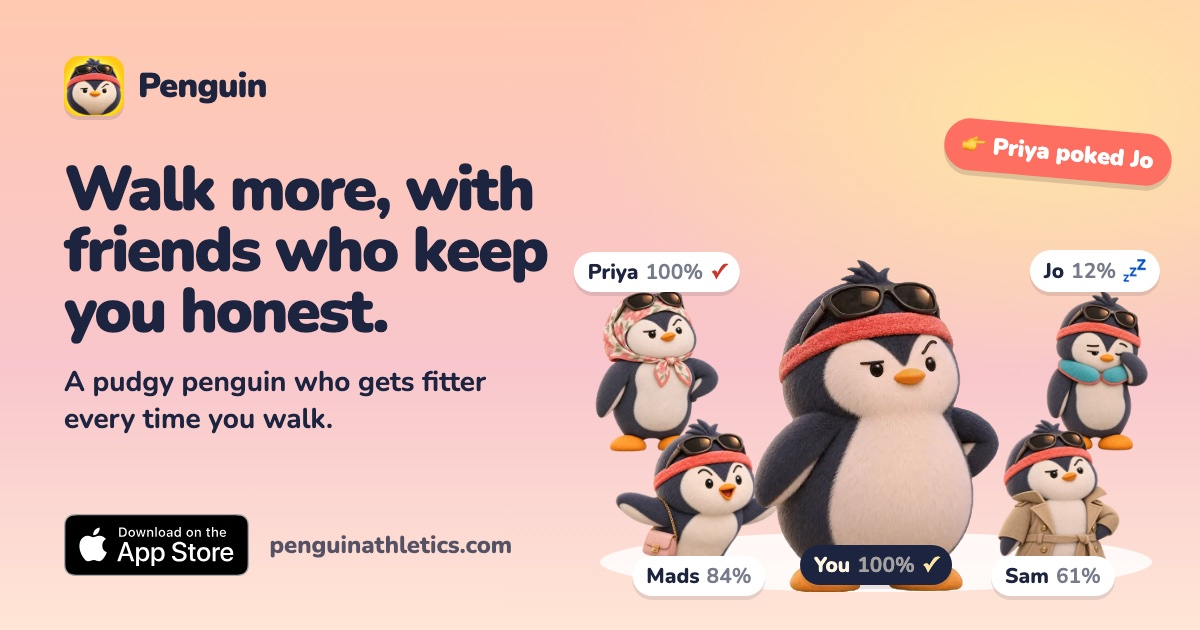
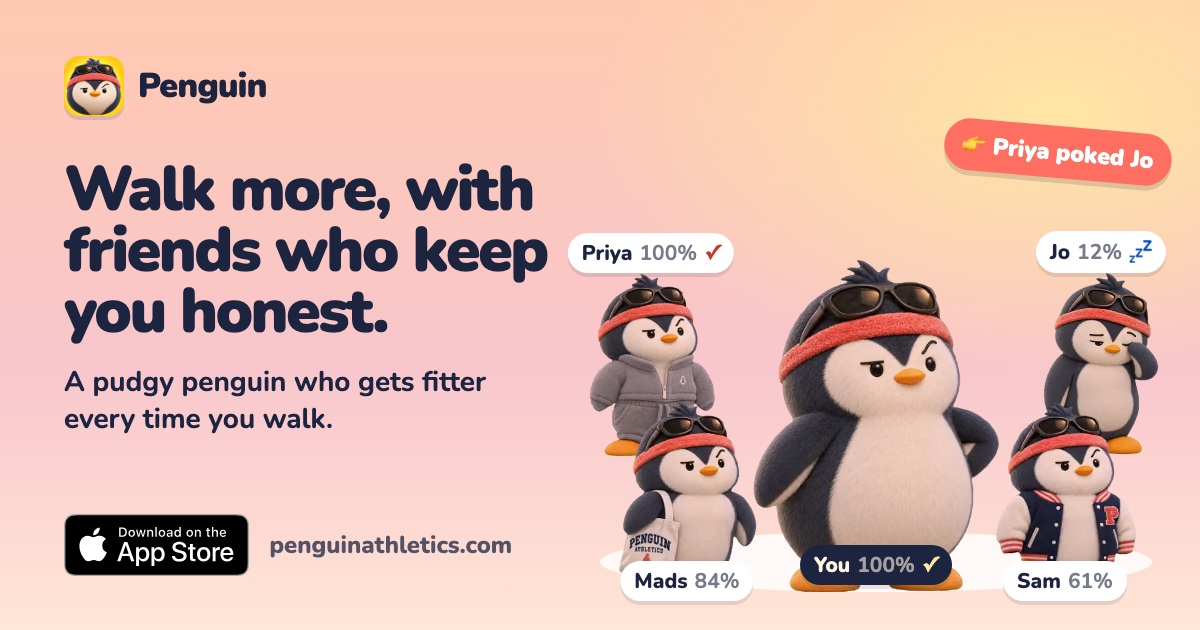
Share images: new squad to match the hero; remove old outfit images

Changed region(s): [[0.4625, 0.3619, 0.6475, 0.9651], [0.8325, 0.3619, 0.9867, 0.9651]]

diff --git a/scripts/og/og.html b/scripts/og/og.html
@@ -44,10 +44,10 @@
   .pal { position: absolute; z-index: 1; }
   .pal img { display: block; width: 100%; }
   .gary { z-index: 4; left: 21%; bottom: 0; width: 58%; }
-  .priya { left: 0; bottom: 30%; width: 27%; }
-  .mads { z-index: 2; left: 6%; bottom: 2%; width: 29%; }
-  .sam { z-index: 2; right: 6%; bottom: 2%; width: 29%; }
-  .jo { right: 0; bottom: 30%; width: 27%; }
+  .priya { left: -3%; bottom: 29%; width: 31%; }
+  .mads { z-index: 2; left: 2%; bottom: 1%; width: 33%; }
+  .sam { z-index: 2; right: 2%; bottom: 1%; width: 33%; }
+  .jo { right: -3%; bottom: 29%; width: 31%; }
   .chip {
     position: absolute; left: 50%; bottom: -4px; z-index: 5; transform: translateX(-50%);
     display: flex; gap: 7px; align-items: center; white-space: nowrap;
@@ -84,11 +84,11 @@
 
   <div class="squad">
     <p class="poke">👉 Priya poked Jo</p>
-    <div class="pal priya"><img src="../../public/assets/img/squad-priya-400.webp" alt=""><p class="chip">Priya <span>100%</span> <b>✓</b></p></div>
-    <div class="pal mads"><img src="../../public/assets/img/squad-mads-400.webp" alt=""><p class="chip">Mads <span>84%</span></p></div>
+    <div class="pal priya"><img src="../../public/assets/img/friend-priya-360.webp" alt=""><p class="chip">Priya <span>100%</span> <b>✓</b></p></div>
+    <div class="pal mads"><img src="../../public/assets/img/friend-mads-360.webp" alt=""><p class="chip">Mads <span>84%</span></p></div>
     <div class="pal gary"><img src="../../public/assets/img/hero-poster-640.webp" alt=""><p class="chip">You <span>100%</span> <b>✓</b></p></div>
-    <div class="pal sam"><img src="../../public/assets/img/squad-sam-400.webp" alt=""><p class="chip">Sam <span>61%</span></p></div>
-    <div class="pal jo"><img src="../../public/assets/img/squad-jo-400.webp" alt=""><p class="chip">Jo <span>12%</span> <b>💤</b></p></div>
+    <div class="pal sam"><img src="../../public/assets/img/friend-sam-360.webp" alt=""><p class="chip">Sam <span>61%</span></p></div>
+    <div class="pal jo"><img src="../../public/assets/img/friend-jo-360.webp" alt=""><p class="chip">Jo <span>12%</span> <b>💤</b></p></div>
   </div>
 </body>
 </html>

diff --git a/scripts/og/og-join.html b/scripts/og/og-join.html
@@ -44,10 +44,10 @@
   .pal { position: absolute; z-index: 1; }
   .pal img { display: block; width: 100%; }
   .gary { z-index: 4; left: 21%; bottom: 0; width: 58%; }
-  .priya { left: 0; bottom: 30%; width: 27%; }
-  .mads { z-index: 2; left: 6%; bottom: 2%; width: 29%; }
-  .sam { z-index: 2; right: 6%; bottom: 2%; width: 29%; }
-  .jo { right: 0; bottom: 30%; width: 27%; }
+  .priya { left: -3%; bottom: 29%; width: 31%; }
+  .mads { z-index: 2; left: 2%; bottom: 1%; width: 33%; }
+  .sam { z-index: 2; right: 2%; bottom: 1%; width: 33%; }
+  .jo { right: -3%; bottom: 29%; width: 31%; }
   .chip {
     position: absolute; left: 50%; bottom: -4px; z-index: 5; transform: translateX(-50%);
     display: flex; gap: 7px; align-items: center; white-space: nowrap;
@@ -84,11 +84,11 @@
 
   <div class="squad">
     <p class="poke">👉 Priya poked Jo</p>
-    <div class="pal priya"><img src="../../public/assets/img/squad-priya-400.webp" alt=""><p class="chip">Priya <span>100%</span> <b>✓</b></p></div>
-    <div class="pal mads"><img src="../../public/assets/img/squad-mads-400.webp" alt=""><p class="chip">Mads <span>84%</span></p></div>
+    <div class="pal priya"><img src="../../public/assets/img/friend-priya-360.webp" alt=""><p class="chip">Priya <span>100%</span> <b>✓</b></p></div>
+    <div class="pal mads"><img src="../../public/assets/img/friend-mads-360.webp" alt=""><p class="chip">Mads <span>84%</span></p></div>
     <div class="pal gary"><img src="../../public/assets/img/hero-poster-640.webp" alt=""><p class="chip">You <span>joining…</span></p></div>
-    <div class="pal sam"><img src="../../public/assets/img/squad-sam-400.webp" alt=""><p class="chip">Sam <span>61%</span></p></div>
-    <div class="pal jo"><img src="../../public/assets/img/squad-jo-400.webp" alt=""><p class="chip">Jo <span>12%</span> <b>💤</b></p></div>
+    <div class="pal sam"><img src="../../public/assets/img/friend-sam-360.webp" alt=""><p class="chip">Sam <span>61%</span></p></div>
+    <div class="pal jo"><img src="../../public/assets/img/friend-jo-360.webp" alt=""><p class="chip">Jo <span>12%</span> <b>💤</b></p></div>
   </div>
 </body>
 </html>
